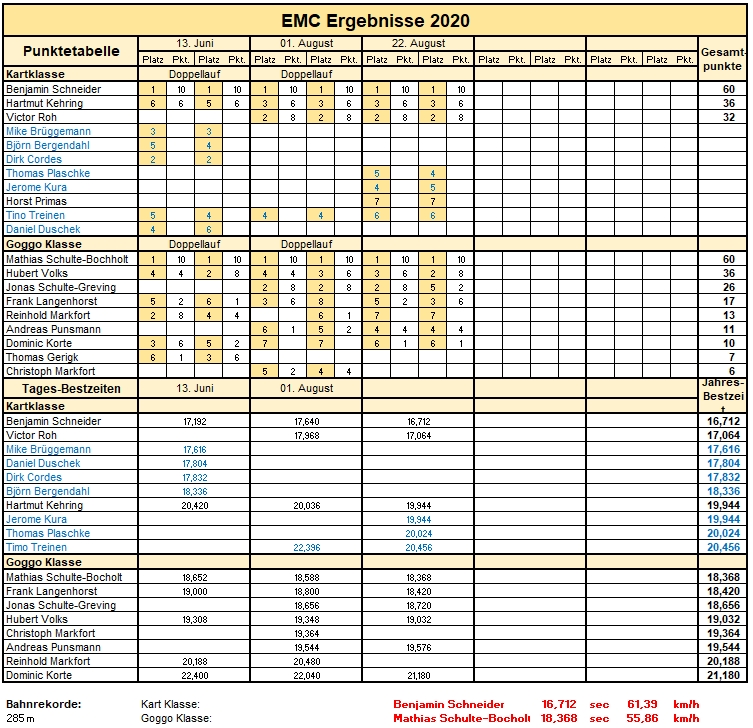
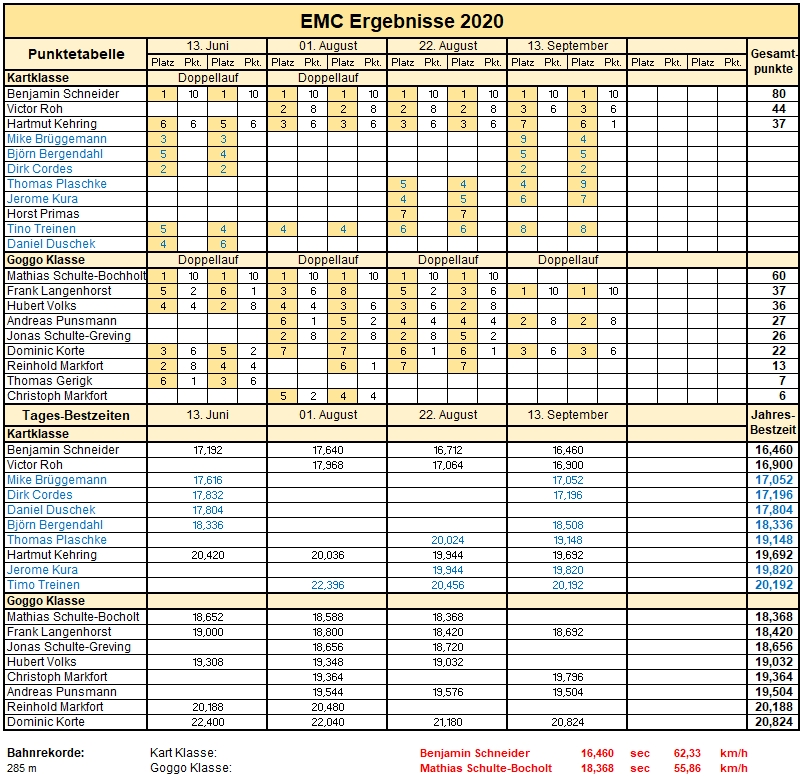
4. Rennen

diff --git a/index.html b/index.html
@@ -8,6 +8,53 @@ description: Kartsport mit "Goggo"-Karts und konventionellen Karts
 <!-------------------------------------------------------------------------->
 <h2 align="center">Das Jahr 2020</h2>
 
+<h3 align="center">4. Lauf um den Jahrespokal des EMC am 13. September 2020</h3>
+<p align="justify">
+  Der 4. Lauf zum EMC Pokal wurde am Sonntag, den 13. September durchgeführt.
+  Die Goggo-Klasse war bedingt durch den Ernteeinsatz der Mitglieder mit
+  nur 4 Fahren schwach vertreten. Die Kartklasse hingegen wurde durch 6
+  Gastfahrer verstärkt, somit gingen hier 9 Fahrzeuge an den Start und sorgten
+  für spannende Rennen. Auch der 4. Lauf fand unter Berücksichtugung der Corona
+  -Einschränkungen statt, diese wurden sowohl von den Vereinsmitgliedern wie
+  auch von den Zuschauern eingehalten.
+</p>
+<p align="justify">
+  In der Goggo-Klasse musste Christoph Markfort leider nach dem Training mit
+  Motorschaden aufgeben. Von den drei restlichen Fahrern siegte in beiden Läufen
+  Frank Langenhorst vor Andreas Punsmann und Dominik Korte.
+</p>
+<p align="justify">
+  In der Kartklase mussten die Gastfahrer erkennen, dass 3 Fahrzeuge nebeneinander
+  in der Kurve zuviel sein können und dies führte dann zu der einen oder anderen
+  Kollision. Bis zum nächsten Rennen dürften die Schäden aber wieder behoben
+  sein und man wird mit etwas mehr Rücksicht an den Start gehen. Benjamin
+  Schneider konnte Dirk Cordes und Victor Roh zwei Siege einfahren. Den vierten
+  Platz belegte Mike Brüggemann.
+</p>
+<figure class="gesamt">           <!-- 2 Bilder nebeneinander anordnen -->
+      <figure class="einzel2">    <!-- Originalgröße 1630 x 1400 einstellen -->
+           <img src="img/rennen/2020.09.13_goggo.jpg" alt="Sieger Goggo" />
+           <figcaption>Tagessieger Goggo</figcaption>
+      </figure>
+      <figure class="einzel2">
+           <img src="img/rennen/2020.09.13_kart.jpg" alt="Sieger Kart" />
+           <figcaption>Tagessieger Kart</figcaption>
+      </figure>
+</figure>
+<div class="textspalten2">       <!-- Bildunterschrift in 2 Spalten anordnen -->
+   <ul>
+    	<li>1. Frank Langenhorst</li>
+   		<li>2. Andreas Punsmann</li>
+   		<li>3. Dominik Korte</li>
+   		<li></li>
+   		<li>1. Benjamin Schneider</li>
+      <li>2. Dirk Cordes</li>
+      <li>3. Victor Roh</li>
+      <li>4. Mike Brüggemann</li>
+      <li></li>
+   </ul>
+</div>
+
 <h3 align="center">3. Lauf um den Jahrespokal des EMC am 22. August 2020</h3>
 <p align="justify">
   Der 3. Lauf zum EMC Pokal wurde am Samstag, den 22. August durchgeführt. In
